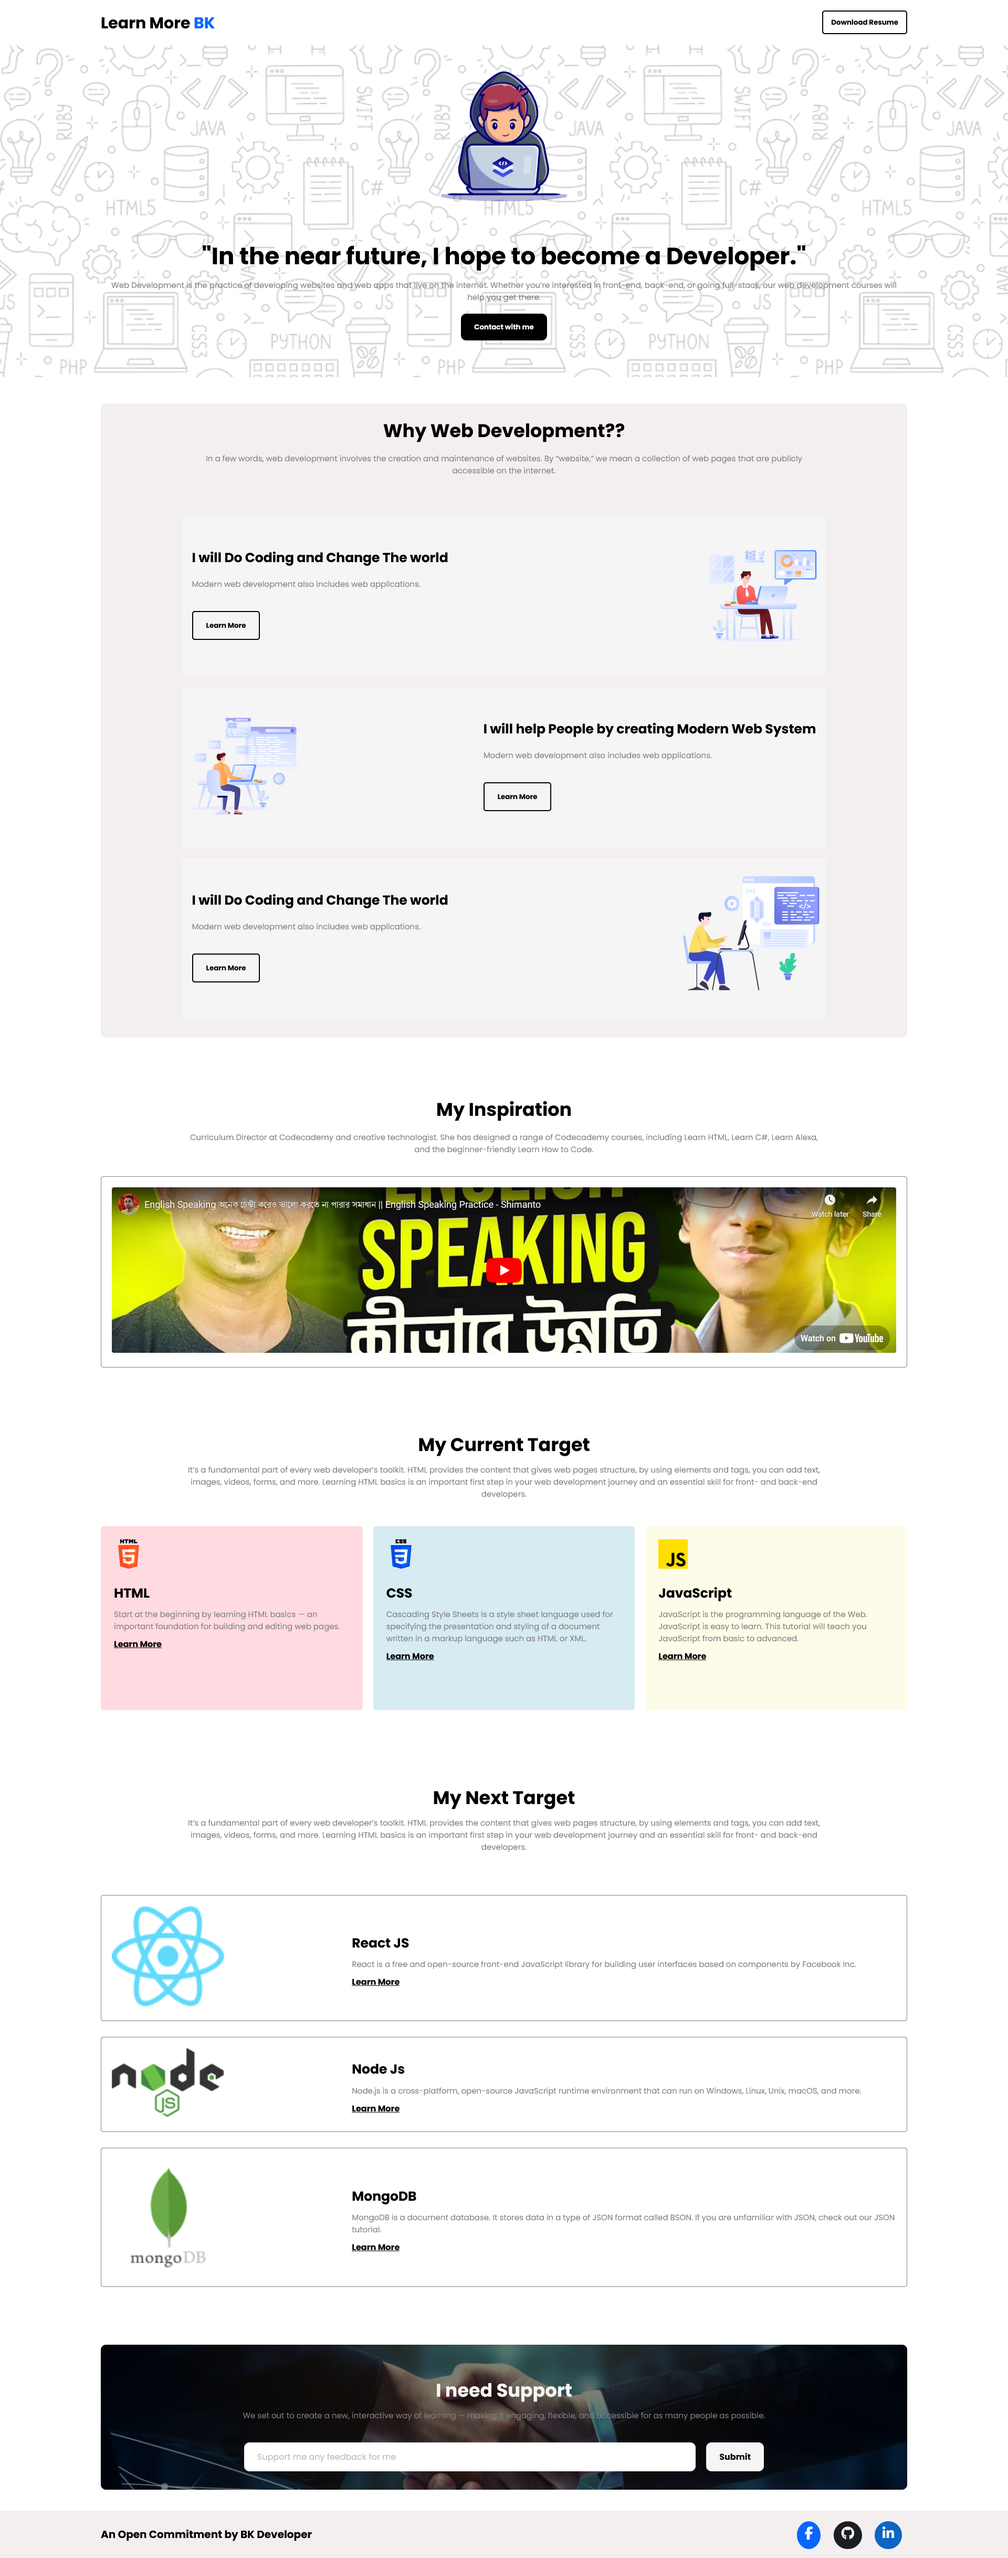
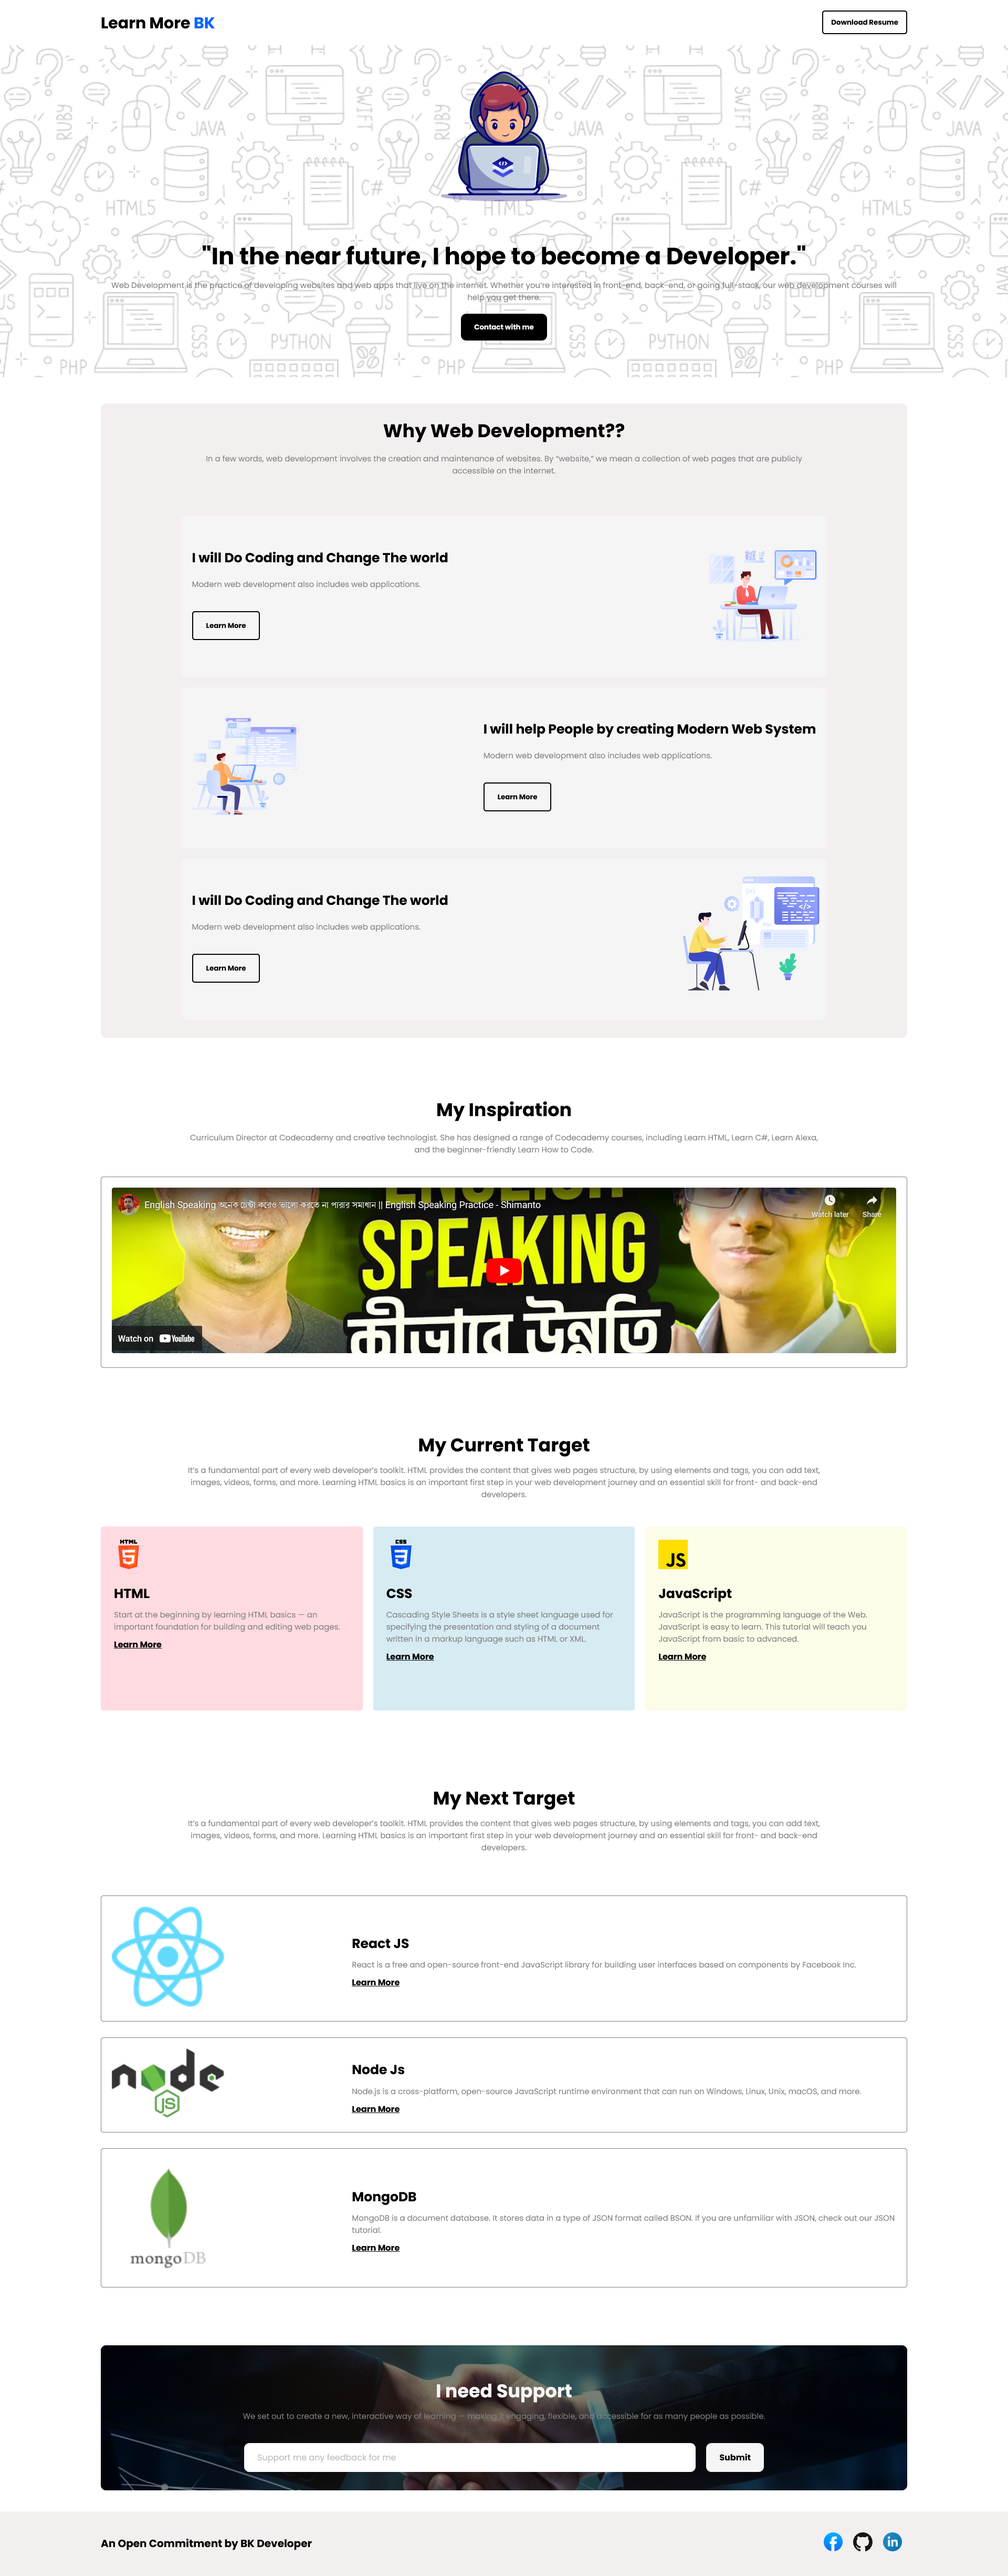
updated

diff --git a/index.html b/index.html
@@ -17,7 +17,7 @@
       <nav class="container">
         <div class="navbar">
           <a href="#">
-            <h1>Learn More <span style="color: #0866FF;">BK</span></h1>
+            <h1>Learn More <span style="color: #0866ff">BK</span></h1>
           </a>
           <a href="#"><button>Download Resume</button></a>
         </div>
@@ -34,12 +34,13 @@
           <div class="herotext">
             <h2>"In the near future, I hope to become a Developer."</h2>
             <p>
-              Web Development is the practice of developing websites and web apps that live on the internet. Whether
-              you’re interested in front-end, back-end, or going full-stack, our web development courses will help you
-              get there.
+              Web Development is the practice of developing websites and web
+              apps that live on the internet. Whether you’re interested in
+              front-end, back-end, or going full-stack, our web development
+              courses will help you get there.
             </p>
-            <a href="#footer" style="text-decoration: none;"> <button>Contact with me</button></a>
-
+            <a href="#footer" style="text-decoration: none">
+              <button>Contact with me</button></a>
           </div>
         </div>
       </div>
@@ -55,8 +56,9 @@
           <div class="course-header">
             <h3>Why Web Development??</h3>
             <p>
-              In a few words, web development involves the creation and maintenance of websites. By “website,” we mean a
-              collection of web pages that are publicly accessible on the internet.
+              In a few words, web development involves the creation and
+              maintenance of websites. By “website,” we mean a collection of
+              web pages that are publicly accessible on the internet.
             </p>
           </div>
 
@@ -64,9 +66,7 @@
             <div class="courseItem">
               <div class="courseContent">
                 <h4>I will Do Coding and Change The world</h4>
-                <p>
-                  Modern web development also includes web applications.
-                </p>
+                <p>Modern web development also includes web applications.</p>
                 <button>Learn More</button>
               </div>
               <div class="courseImage">
@@ -78,20 +78,15 @@
                 <img src="./assets/Group 4.png" alt="" />
               </div>
               <div class="courseContent">
-                <h4>I will help People by creating
-                  Modern Web System</h4>
-                <p>
-                  Modern web development also includes web applications.
-                </p>
+                <h4>I will help People by creating Modern Web System</h4>
+                <p>Modern web development also includes web applications.</p>
                 <button>Learn More</button>
               </div>
             </div>
             <div class="courseItem">
               <div class="courseContent">
                 <h4>I will Do Coding and Change The world</h4>
-                <p>
-                  Modern web development also includes web applications.
-                </p>
+                <p>Modern web development also includes web applications.</p>
                 <button>Learn More</button>
               </div>
               <div class="courseImage">
@@ -110,8 +105,10 @@
           <div class="inspiration-header">
             <h3>My Inspiration</h3>
             <p>
-              Curriculum Director at Codecademy and creative technologist. She has designed a range of Codecademy
-              courses, including Learn HTML, Learn C#, Learn Alexa, and the beginner-friendly Learn How to Code.
+              Curriculum Director at Codecademy and creative technologist. She
+              has designed a range of Codecademy courses, including Learn
+              HTML, Learn C#, Learn Alexa, and the beginner-friendly Learn How
+              to Code.
             </p>
           </div>
 
@@ -132,9 +129,11 @@
           <div class="current-target-header">
             <h3>My Current Target</h3>
             <p>
-              It’s a fundamental part of every web developer’s toolkit. HTML provides the content that gives web pages
-              structure, by using elements and tags, you can add text, images, videos, forms, and more. Learning HTML
-              basics is an important first step in your web development journey and an essential skill for front- and
+              It’s a fundamental part of every web developer’s toolkit. HTML
+              provides the content that gives web pages structure, by using
+              elements and tags, you can add text, images, videos, forms, and
+              more. Learning HTML basics is an important first step in your
+              web development journey and an essential skill for front- and
               back-end developers.
             </p>
           </div>
@@ -146,8 +145,10 @@
               </div>
               <div class="current-target-textbox">
                 <h4>HTML</h4>
-                <p>Start at the beginning by learning HTML basics — an important foundation for building and editing web
-                  pages.</p>
+                <p>
+                  Start at the beginning by learning HTML basics — an
+                  important foundation for building and editing web pages.
+                </p>
                 <a href="https://github.com/" target="_blank">Learn More</a>
               </div>
             </div>
@@ -158,8 +159,11 @@
               </div>
               <div class="current-target-textbox">
                 <h4>CSS</h4>
-                <p>Cascading Style Sheets is a style sheet language used for specifying the presentation and styling of
-                  a document written in a markup language such as HTML or XML.</p>
+                <p>
+                  Cascading Style Sheets is a style sheet language used for
+                  specifying the presentation and styling of a document
+                  written in a markup language such as HTML or XML.
+                </p>
                 <a href="https://github.com/" target="_blank">Learn More</a>
               </div>
             </div>
@@ -170,8 +174,11 @@
               </div>
               <div class="current-target-textbox">
                 <h4>JavaScript</h4>
-                <p>JavaScript is the programming language of the Web. JavaScript is easy to learn. This tutorial will
-                  teach you JavaScript from basic to advanced. </p>
+                <p>
+                  JavaScript is the programming language of the Web.
+                  JavaScript is easy to learn. This tutorial will teach you
+                  JavaScript from basic to advanced.
+                </p>
                 <a href="https://github.com/" target="_blank">Learn More</a>
               </div>
             </div>
@@ -187,9 +194,11 @@
           <div class="next-target-header">
             <h3>My Next Target</h3>
             <p>
-              It’s a fundamental part of every web developer’s toolkit. HTML provides the content that gives web pages
-              structure, by using elements and tags, you can add text, images, videos, forms, and more. Learning HTML
-              basics is an important first step in your web development journey and an essential skill for front- and
+              It’s a fundamental part of every web developer’s toolkit. HTML
+              provides the content that gives web pages structure, by using
+              elements and tags, you can add text, images, videos, forms, and
+              more. Learning HTML basics is an important first step in your
+              web development journey and an essential skill for front- and
               back-end developers.
             </p>
           </div>
@@ -202,8 +211,9 @@
               <div class="next-target-item-text">
                 <h4>React JS</h4>
                 <p>
-                  React is a free and open-source front-end JavaScript library for building user interfaces based on
-                  components by Facebook Inc.
+                  React is a free and open-source front-end JavaScript library
+                  for building user interfaces based on components by Facebook
+                  Inc.
                 </p>
                 <a href="https://github.com/" target="_blank">Learn More</a>
               </div>
@@ -215,8 +225,9 @@
               <div class="next-target-item-text">
                 <h4>Node Js</h4>
                 <p>
-                  Node.js is a cross-platform, open-source JavaScript runtime environment that can run on Windows,
-                  Linux, Unix, macOS, and more.
+                  Node.js is a cross-platform, open-source JavaScript runtime
+                  environment that can run on Windows, Linux, Unix, macOS, and
+                  more.
                 </p>
                 <a href="https://github.com/" target="_blank">Learn More</a>
               </div>
@@ -228,8 +239,9 @@
               <div class="next-target-item-text">
                 <h4>MongoDB</h4>
                 <p>
-                  MongoDB is a document database. It stores data in a type of JSON format called BSON. If you are
-                  unfamiliar with JSON, check out our JSON tutorial.
+                  MongoDB is a document database. It stores data in a type of
+                  JSON format called BSON. If you are unfamiliar with JSON,
+                  check out our JSON tutorial.
                 </p>
                 <a href="https://github.com/" target="_blank">Learn More</a>
               </div>
@@ -246,8 +258,9 @@
           <div class="support-textbox">
             <h3>I need Support</h3>
             <p>
-              We set out to create a new, interactive way of learning — making it engaging, flexible, and accessible for
-              as many people as possible.
+              We set out to create a new, interactive way of learning — making
+              it engaging, flexible, and accessible for as many people as
+              possible.
             </p>
           </div>
           <div class="support-input-box">
@@ -258,6 +271,7 @@
     </section>
   </main>
 
+  <!-- footer part -->
   <footer>
     <section id="footer">
       <div class="container">
@@ -266,13 +280,12 @@
             <h5>An Open Commitment by BK Developer</h5>
           </div>
           <div class="footer-iconbox">
-
-            <a href="https://www.facebook.com/" target="_blank" style="background-color: #0866FF;"> <i
-                class="fa-brands fa-facebook-f"></i></a>
-            <a href="https://github.com/" target="_blank" style="background-color: #1B1E22;"> <i
-                class="fa-brands fa-github"></i></a>
-            <a href="https://www.linkedin.com" target="_blank" style="background-color: #0A66C2;"> <i
-                class="fa-brands fa-linkedin-in"></i></a>
+            <a href="https://www.facebook.com/" target="_blank">
+              <img src="./assets/facebook.png" alt="" /></a>
+            <a href="https://github.com/" target="_blank"><img src="./assets/github.png" alt="" />
+            </a>
+            <a href="https://www.linkedin.com" target="_blank">
+              <img src="./assets/linkedin-icon 1.png" alt="" /></a>
           </div>
         </div>
       </div>

diff --git a/style.css b/style.css
@@ -386,14 +386,14 @@ p {
   gap: 20px;
 }
 
-#footer .footer-box .footer-iconbox a {
-  text-decoration: none;
-  color: whitesmoke;
-  margin: 0 10px;
-  padding: 15px;
-  border-radius: 50%;
+#footer .footer-box .footer-iconbox {
+  padding: 20px 0;
+  display: flex;
+  align-items: center;
+  justify-content: center;
 }
 
-#footer .footer-box .footer-iconbox i {
-  font-size: 25px;
+#footer .footer-box .footer-iconbox a {
+  text-decoration: none;
+  margin: 0 10px;
 }
